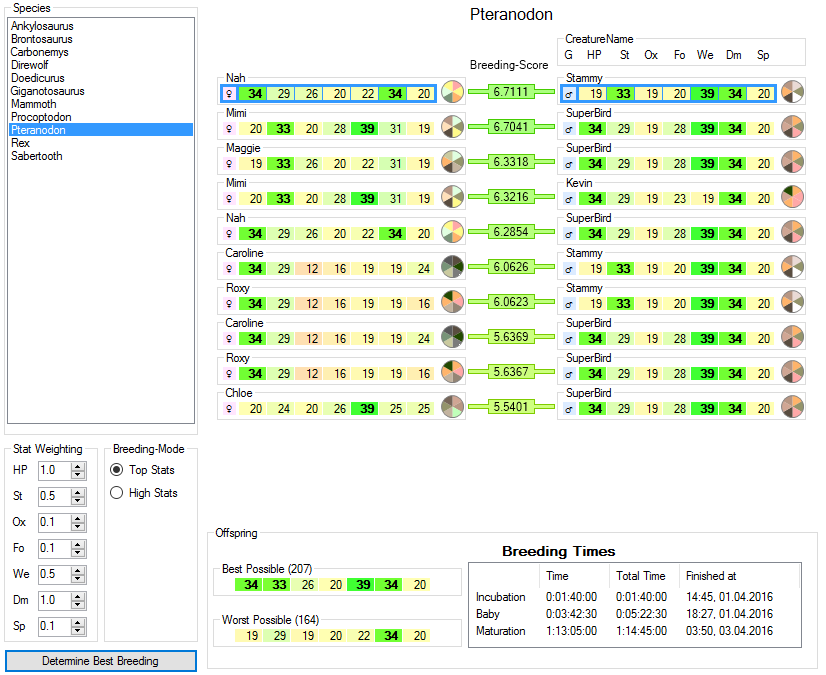
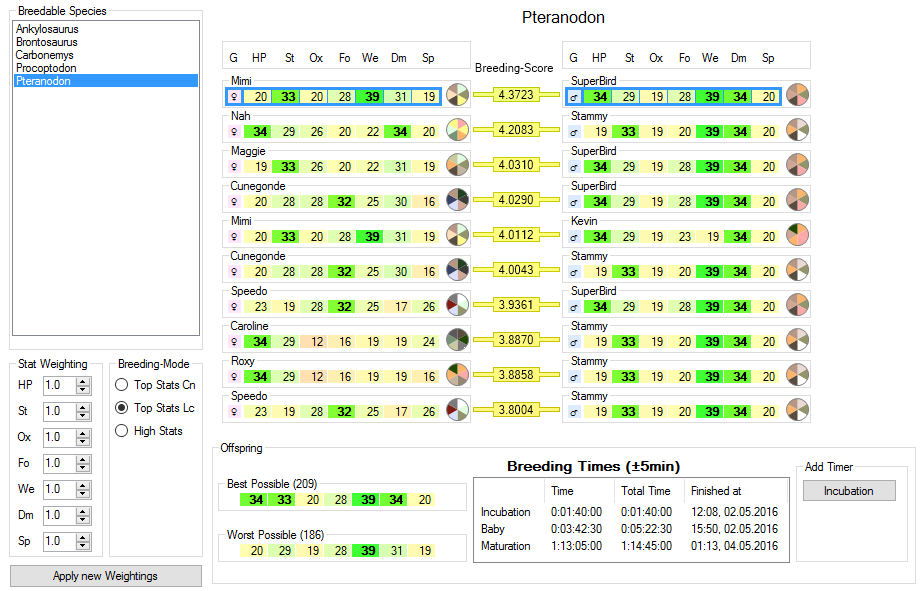
updated version of update-checker, screenshots, patchnotes in readme.

diff --git a/README.md b/README.md
@@ -25,6 +25,7 @@ Download the [latest release here](https://github.com/cadon/ARKStatsExtractor/re
 * The file multipliers.txt contains the global multipliers for the levelup
 
 ## Patchnotes
+* 0.19: Editing, Extraction improved, Contextmenus, new Breeding-mode, Timer, Fixes.
 * 0.18: Breeding-Plan. Colors of creatures. More Settings.
 * 0.17.8: GUI-improvements, saves user-settings. Levelbars show percentiles
 * 0.17.5: Improved Extraction: First guess more accurate, multipliers are saved to library-file, better parent-sorting, new status-property for creatures
